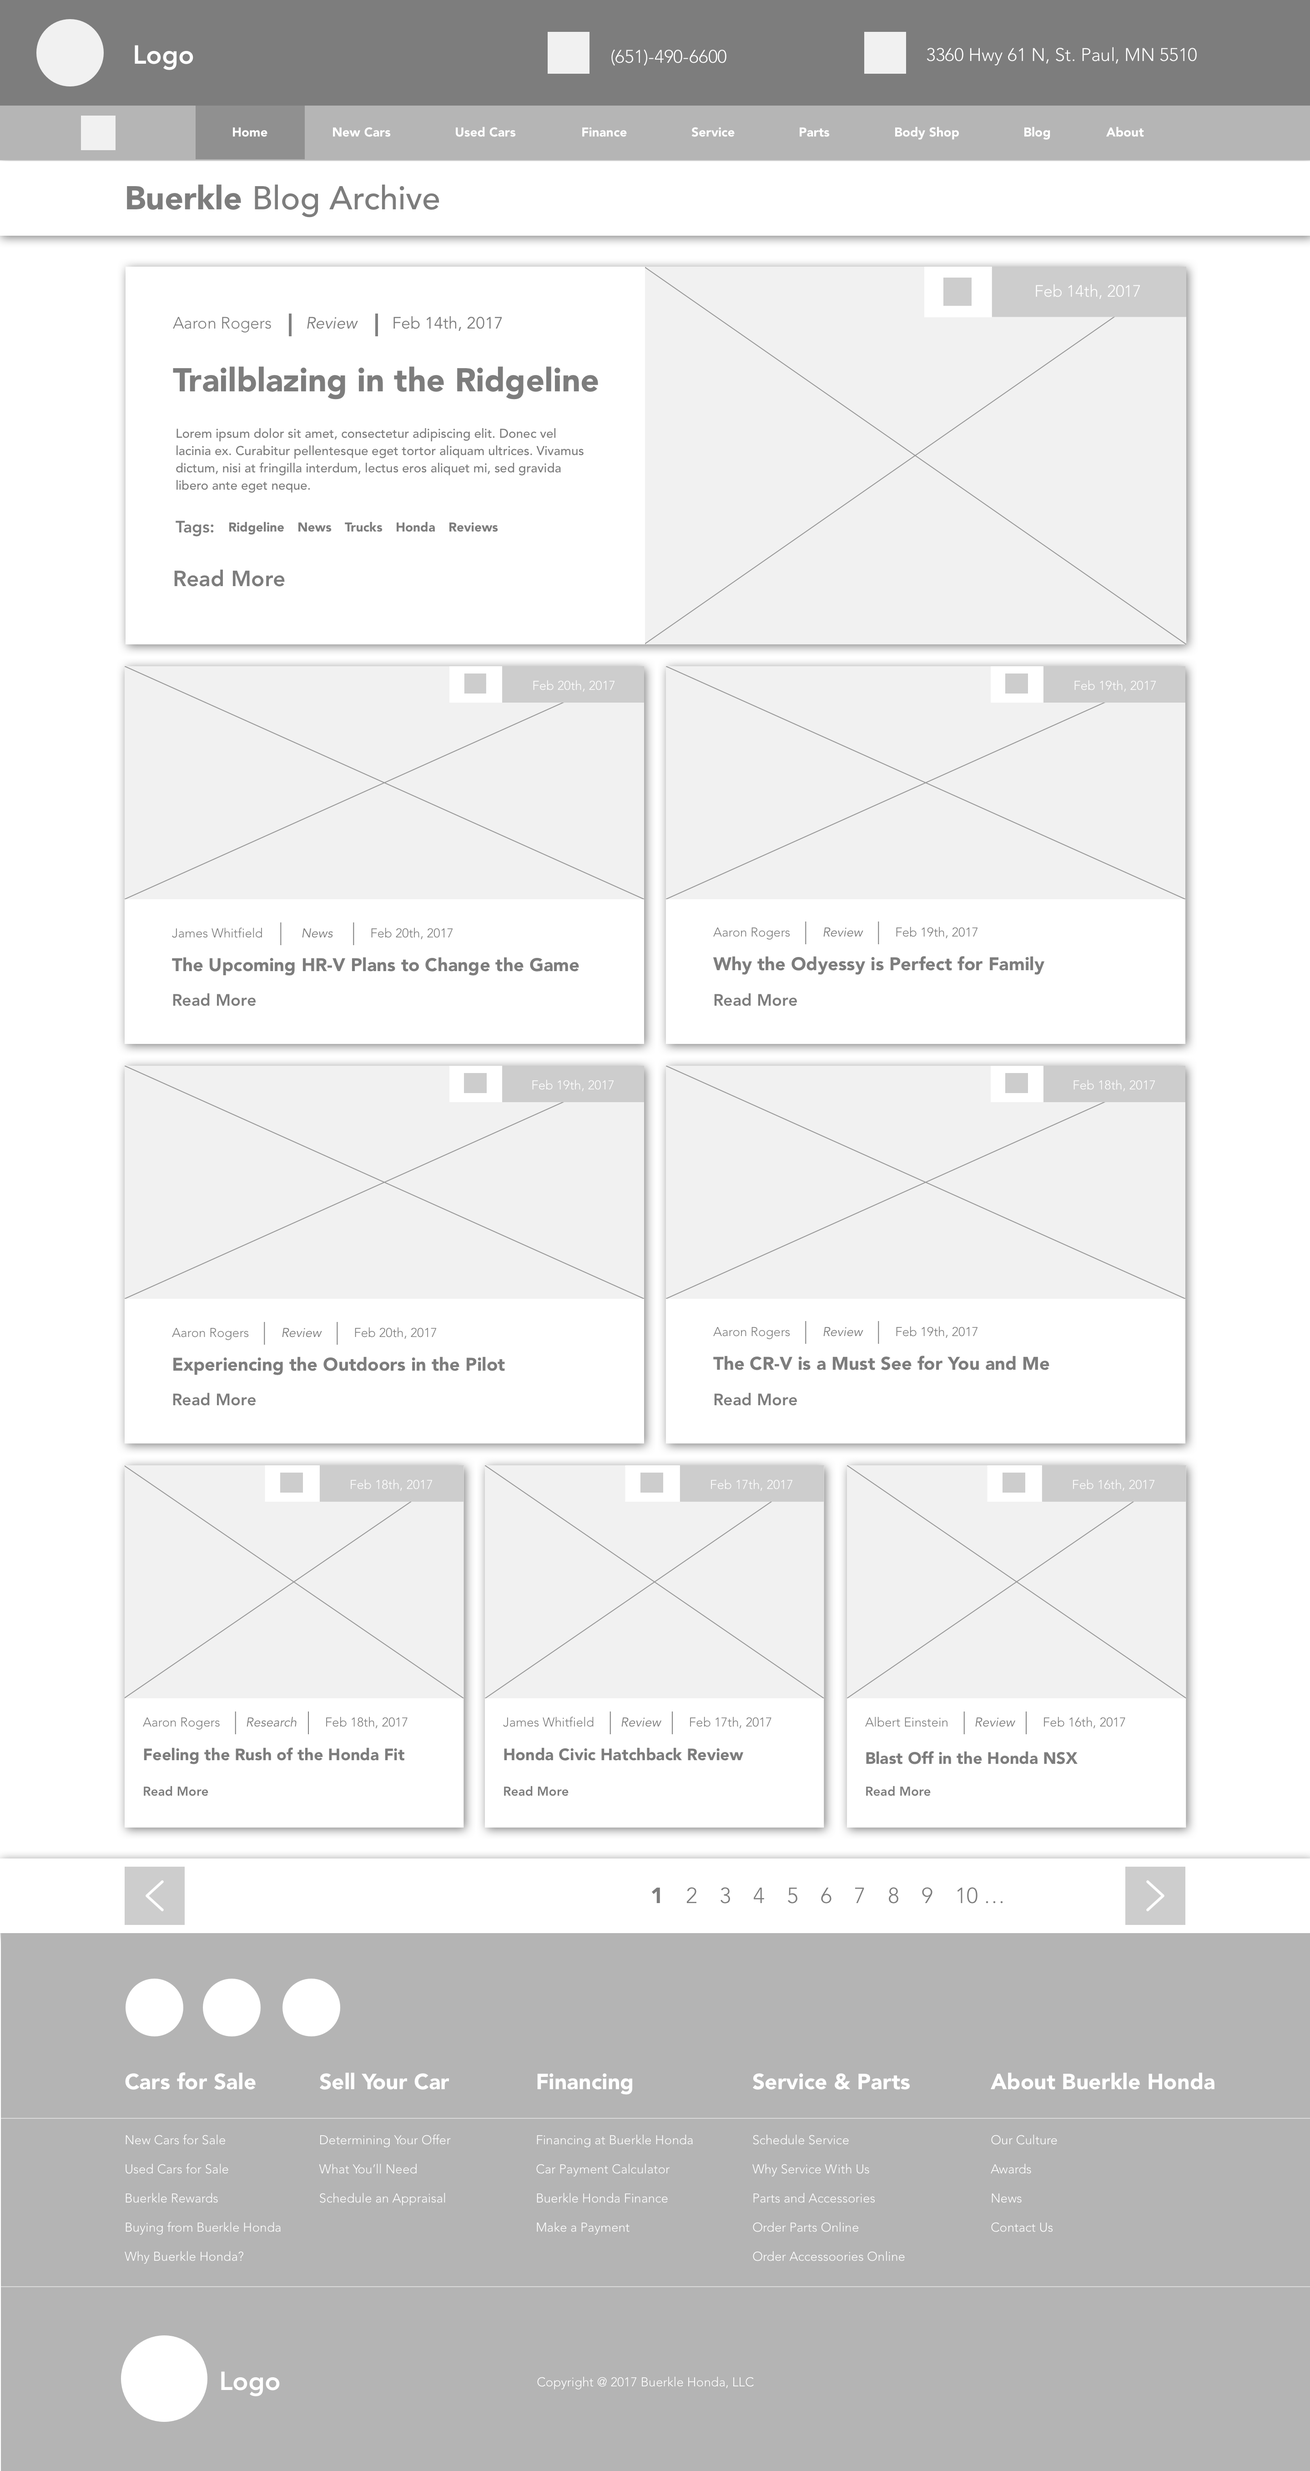
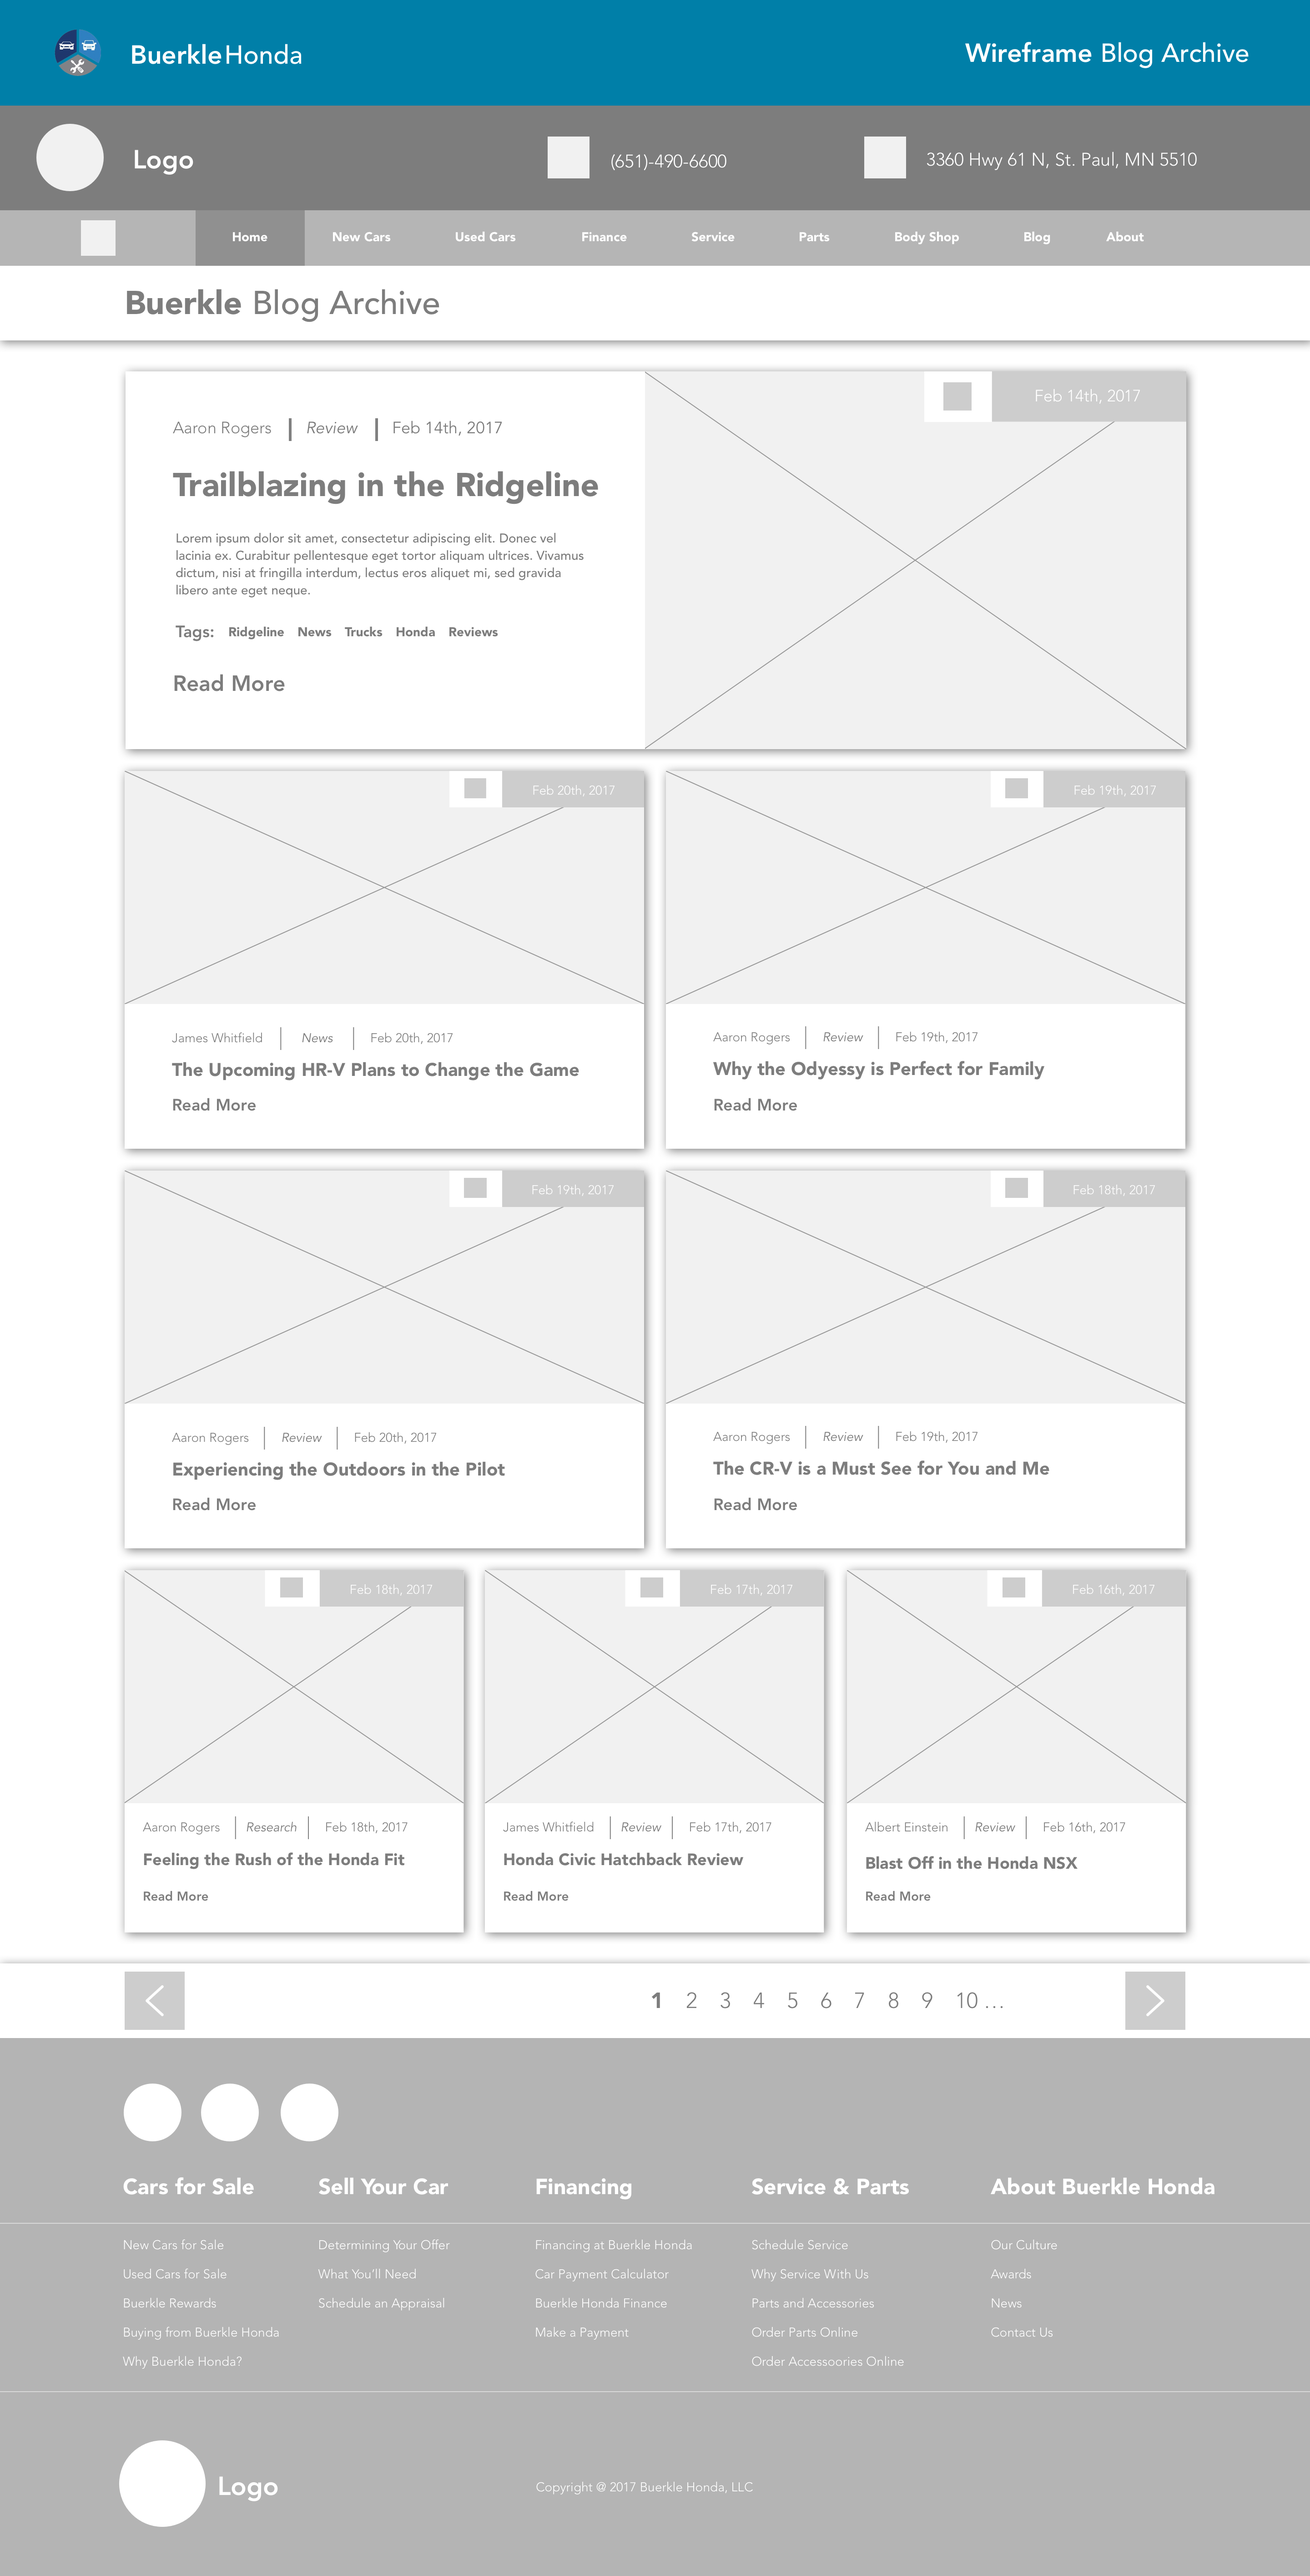
revised the site map and wireframe jpgs

diff --git a/pages/buerkle-honda.html b/pages/buerkle-honda.html
@@ -189,16 +189,13 @@
                             <img class="featured-project-image" src="../img/buerkle-site-map.jpg" alt="">
                         </div>
                         <div class="featured-project-image-wrapper anim">
-                            <img class="featured-project-image" src="../img/buerkle-style-guide.jpg" alt="">
-                        </div>
-                        <div class="featured-project-image-wrapper anim">
                             <img class="featured-project-image" src="../img/buerkle-landing-page-wireframe.jpg" alt="">
                         </div>
                         <div class="featured-project-image-wrapper anim">
                             <img class="featured-project-image" src="../img/buerkle-home.jpg" alt="">
                         </div>
                         <div class="featured-project-image-wrapper anim">
-                            <img class="featured-project-image" src="../img/buerkle-vehicle-description-page-wireframe.jpg" alt="">
+                            <img class="featured-project-image" src="../img/buerkle-vehicle-wireframe.jpg" alt="">
                         </div>
                         <div class="featured-project-image-wrapper anim">
                             <img class="featured-project-image" src="../img/buerkle-vehicle.jpg" alt="">
@@ -207,7 +204,7 @@
                             <img class="featured-project-image" src="../img/buerkle-blog-archive-wireframe.jpg" alt="">
                         </div>
                         <div class="featured-project-image-wrapper anim">
-                            <img class="featured-project-image" src="../img/buerkle-blog.jpg" alt="">
+                            <img class="featured-project-image" src="../img/buerkle-blog-archive.jpg" alt="">
                         </div>
                         <div class="featured-project-image-wrapper anim">
                             <img class="featured-project-image" src="../img/buerkle-blog-wireframe.jpg" alt="">

diff --git a/pages/record-app.html b/pages/record-app.html
@@ -201,7 +201,7 @@
                             simple steps in order to easily understand what the Record app is all about.
                            </p>
                         </div>
-                        <div class="featured-project-image-wrapper">
+                        <div class="featured-project-image-wrapper anim">
                           <img src="../img/splash-screen@2x.png" alt="" class="featured-project-image">
                         </div>
                       </div>
